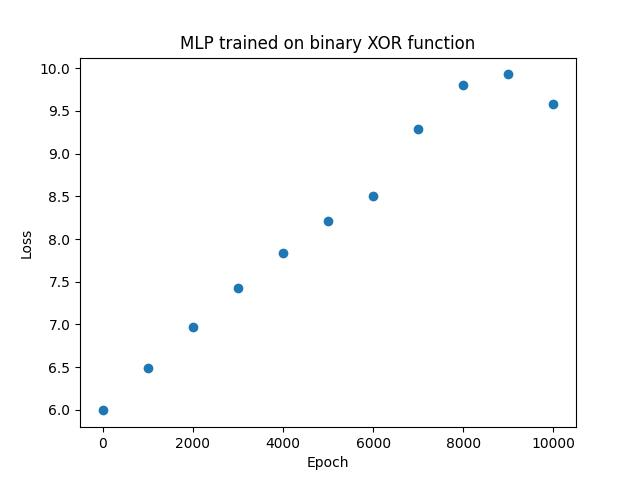
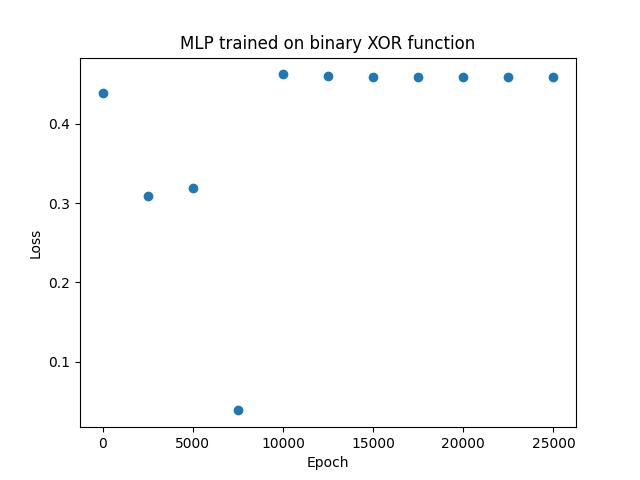
Add MLP visualization

diff --git a/cudagrad/mlp.py b/cudagrad/mlp.py
@@ -18,6 +18,7 @@ from random import choice, random
 from typing import *
 
 import matplotlib.pyplot as plt
+import numpy as np # just for plotting
 
 from cudagrad.nn import Module, mse, sgd
 from cudagrad.tensor import Tensor
@@ -25,17 +26,13 @@ from cudagrad.tensor import Tensor
 
 class MLP(Module):
     def __init__(self):
-        self.w0 = Tensor(
-            [10, 2], [choice([-1 * random(), random()]) for _ in range(10 * 2)]
-        )
-        self.b0 = Tensor([10], [choice([-1 * random(), random()]) for _ in range(10)])
-        self.w1 = Tensor(
-            [1, 10], [choice([-1 * random(), random()]) for _ in range(1 * 10)]
-        )
+        self.w0 = Tensor([2, 2], [choice([-1 * random(), random()]) for _ in range(2 * 2)])
+        self.b0 = Tensor([2], [choice([-1 * random(), random()]) for _ in range(2)])
+        self.w1 = Tensor([1, 2], [choice([-1 * random(), random()]) for _ in range(1 * 2)])
         self.b1 = Tensor([1], [choice([-1 * random(), random()]) for _ in range(1)])
 
     def __call__(self, x: Tensor) -> Tensor:
-        return self.w1 @ Tensor.relu((self.w0 @ x) + self.b0) + self.b1
+        return Tensor.sigmoid(self.w1 @ Tensor.sigmoid((self.w0 @ x) + self.b0) + self.b1)
 
 
 if __name__ == "__main__":
@@ -43,8 +40,8 @@ if __name__ == "__main__":
     inputs = [[0, 0], [0, 1], [1, 0], [1, 1]]
     targets = [0, 1, 1, 0]
 
-    EPOCHS = 10000
-    lr = 0.000001
+    EPOCHS = 25000
+    lr = 0.1
     epochs = []
     losses = []
     model = MLP()
@@ -88,3 +85,21 @@ if __name__ == "__main__":
     plt.xlabel("Epoch")
     plt.ylabel("Loss")
     plt.savefig("./cudagrad/mlp.jpg")
+
+    x = np.linspace(0, 1, 50)
+    y = np.linspace(0, 1, 50)
+    X, Y = np.meshgrid(x, y)
+    Z = np.zeros(X.shape)
+
+    for i in range(X.shape[0]):
+        for j in range(X.shape[1]):
+            input_data = Tensor([2, 1], [X[i, j], Y[i, j]])
+            Z[i, j] = model(input_data).item()
+
+    fig = plt.figure()
+    ax = fig.add_subplot(111, projection="3d")
+    ax.plot_surface(X, Y, Z, cmap="viridis")
+    plt.title("XOR MLP Visualization")
+    plt.xlabel("X")
+    plt.ylabel("Y")
+    plt.savefig("./cudagrad/mlp-3d.jpg")

diff --git a/README.md b/README.md
@@ -19,3 +19,4 @@ The following examples were written purely in Python using only `cudagrad.Tensor
 Work in progress!
 
 ![](cudagrad/mlp.jpg)
+![](cudagrad/mlp-3d.jpg)
